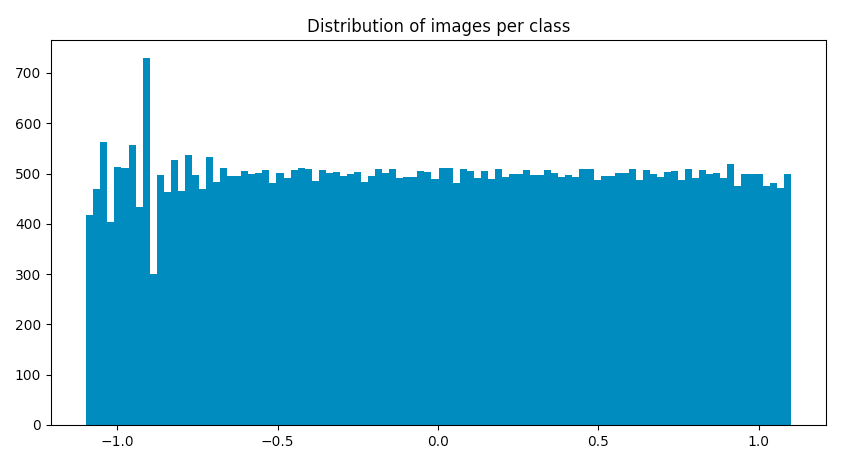
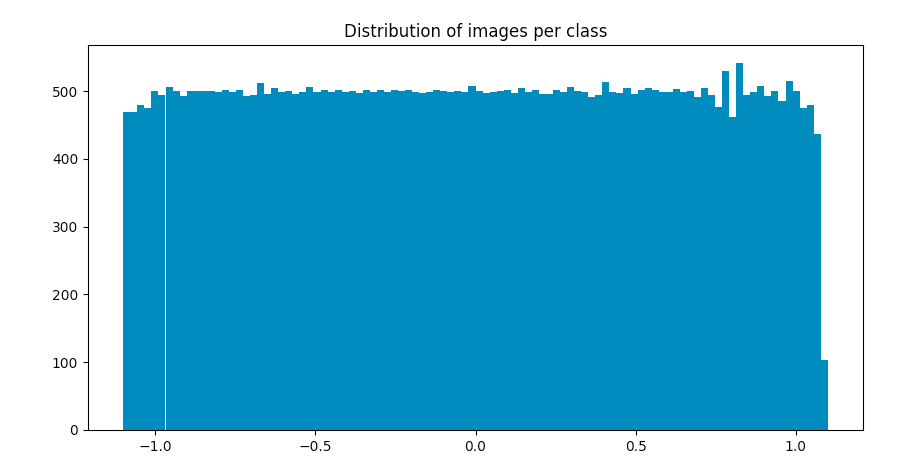
image

diff --git a/model4.py b/model4.py
@@ -249,7 +249,7 @@ for i in range(len(n_Count)):
     bin_s = bins[i+1]
     for fn,me,inf in zip(file_names,measurements,info):    
         if n_Count[i]>0:
-            if ((me>bin_i)and(me<=bin_s)):
+            if ((me>=bin_i)and(me<bin_s)):
                 file_names2.append(fn)        
                 measurements2.append(me)        
                 info2.append(inf)
